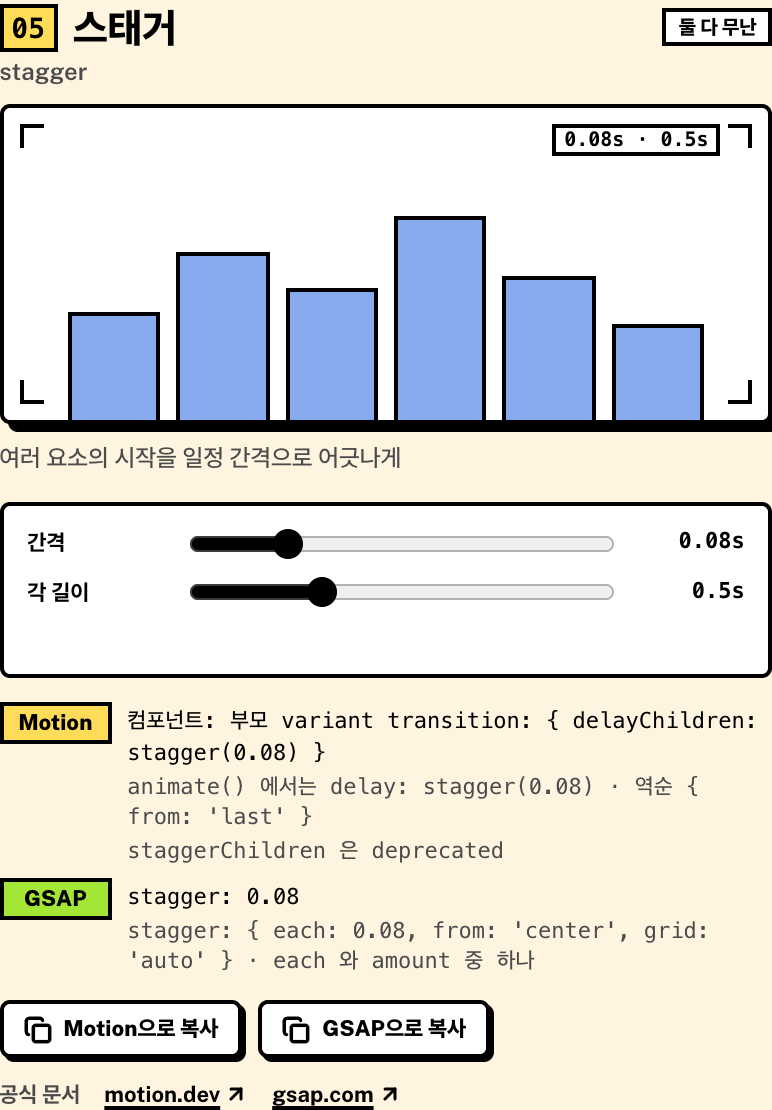
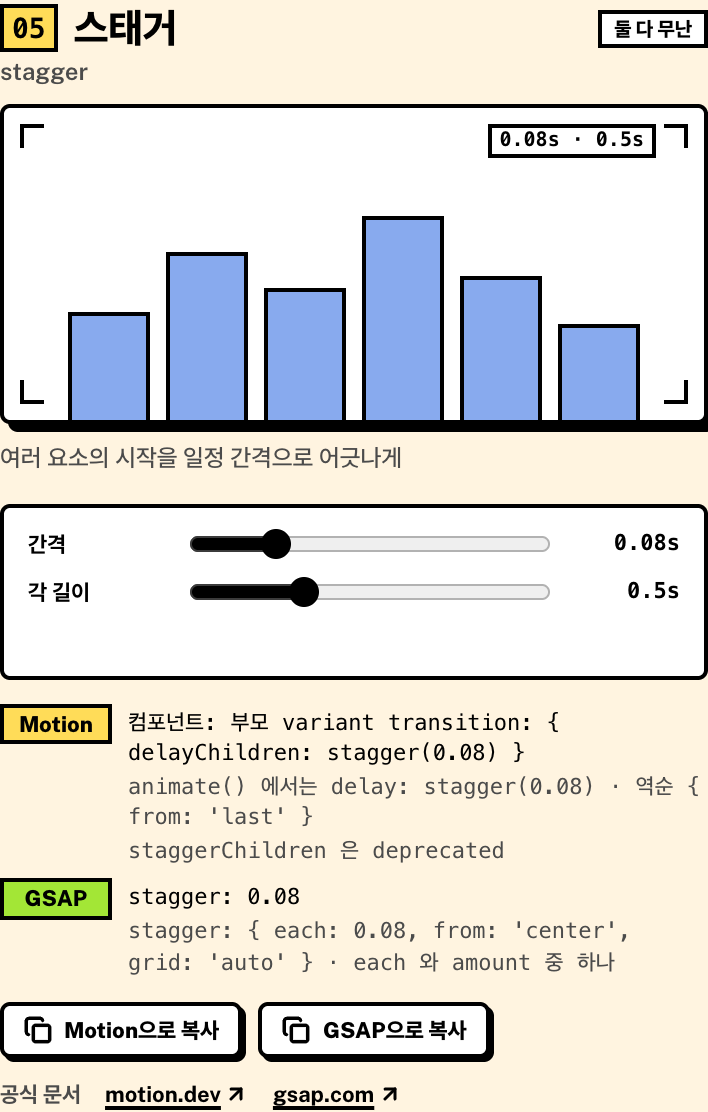
히어로 문구 개선 및 섹션 이동 툴팁 추가
- src/App.tsx: 히어로·"여기서 얻어가는 것" 문구를 해요체로 수정, "이름" 표현을 "표준 용어"로 정정
- src/App.tsx: 카테고리 버튼에 마지막 hover 위치를 따라 이동하는 바운스 툴팁 추가
- src/index.css: prefers-reduced-motion 조건부 smooth scroll 적용
- README.md, docs/*.png: 문구 통일 및 스크린샷 교체
- .gitignore: .netlify 제외

diff --git a/src/App.tsx b/src/App.tsx
@@ -1,4 +1,4 @@
-import { Suspense, useState } from 'react'
+import { Suspense, useLayoutEffect, useRef, useState } from 'react'
 import { ArrowUpRight, Check, Copy, RotateCcw } from 'lucide-react'
 
 import { TECHNIQUE_SECTIONS, type Technique } from './techniques/registry'
@@ -25,6 +25,20 @@ const FIT_LABEL: Record<Fit, { text: string; className: string }> = {
 const sectionId = (index: number) => `section-${index + 1}`
 
 export default function App() {
+  const [activeIndex, setActiveIndex] = useState(0)
+  const [tooltipPos, setTooltipPos] = useState<{ x: number; y: number } | null>(null)
+  const linkRefs = useRef<(HTMLAnchorElement | null)[]>([])
+
+  useLayoutEffect(() => {
+    const update = () => {
+      const link = linkRefs.current[activeIndex]
+      if (link) setTooltipPos({ x: link.offsetLeft + link.offsetWidth / 2, y: link.offsetTop })
+    }
+    update()
+    window.addEventListener('resize', update)
+    return () => window.removeEventListener('resize', update)
+  }, [activeIndex])
+
   return (
     <div className="pb-24">
       {/* 히어로 */}
@@ -37,18 +51,24 @@ export default function App() {
             모션 기법 사전
           </h1>
           <p className="mt-4 max-w-xl text-base font-bold break-keep sm:text-lg">
-            원하는 움직임을 이름과 수치로 바꿔, AI에게 바로 붙여 넣을 지시문으로 가져간다.
+            원하는 움직임을 표준 용어와 숫자로 바꿔보세요. 그대로 복사해서 AI에게 붙여 넣을 수 있는 지시문이 돼요.
           </p>
           <p className="text-nb-muted mt-2 max-w-xl text-sm font-medium break-keep">
-            "부드럽게", "세련되게"는 사람마다, 실행마다 다른 결과를 낸다. 표준 용어와 숫자로 말하면 한 번에 같은 연출이 나온다.
+            "부드럽게", "세련되게" 같은 표현은 사람마다, 실행할 때마다 다르게 해석되기 쉬워요. 표준 용어와 숫자로 말하면 누가 언제 적용해도 똑같은 움직임을 만들 수 있답니다.
           </p>
 
           {/* 카테고리 바로가기 */}
-          <nav className="mt-7 flex flex-wrap gap-2">
+          <nav className="relative mt-10 flex flex-wrap gap-2">
             {TECHNIQUE_SECTIONS.map((section, index) => (
               <a
                 key={section.heading}
+                ref={(el) => {
+                  linkRefs.current[index] = el
+                }}
                 href={`#${sectionId(index)}`}
+                title={`${section.heading} 섹션으로 이동`}
+                onMouseEnter={() => setActiveIndex(index)}
+                onFocus={() => setActiveIndex(index)}
                 className={cn(
                   'shadow-nb-sm rounded-[5px] border-2 border-black px-3 py-1.5 text-xs font-extrabold transition-transform hover:translate-x-0.5 hover:translate-y-0.5 hover:shadow-none',
                   ACCENT_BG[section.accent]
@@ -58,6 +78,21 @@ export default function App() {
                 <span className="ml-1.5 font-mono">{section.techniques.length}</span>
               </a>
             ))}
+
+            {tooltipPos && (
+              <span
+                aria-hidden="true"
+                className="pointer-events-none absolute top-0 left-0 transition-transform duration-150 ease-out"
+                style={{ transform: `translate(${tooltipPos.x}px, ${tooltipPos.y - 32}px)` }}
+              >
+                <span className="flex -translate-x-1/2 animate-bounce flex-col items-center">
+                  <span className="shadow-nb-sm rounded-[4px] border-2 border-black bg-white px-1.5 py-0.5 text-[9px] font-extrabold tracking-tight whitespace-nowrap text-black">
+                    눌러서 바로 이동해요
+                  </span>
+                  <span className="-mt-[3px] size-1.5 rotate-45 border-r-2 border-b-2 border-black bg-white" />
+                </span>
+              </span>
+            )}
           </nav>
         </div>
       </section>
@@ -188,20 +223,20 @@ function TechniqueCard({
 
 const TAKEAWAYS = [
   {
-    title: '움직임의 이름',
-    body: '머릿속 "그 스르륵 올라오는 거"가 무슨 기법인지 데모를 보고 찾는다. 이름을 알면 AI 지시도, 검색도, 디자이너와의 대화도 정확해진다.',
+    title: '기법 용어 찾기',
+    body: '머릿속에 있는 "그 스르륵 올라오는 거"가 어떤 기법인지 데모를 보면서 찾아보세요. 정확한 용어를 알면 AI에게 지시할 때도, 검색할 때도, 디자이너와 대화할 때도 훨씬 정확해져요.',
     accent: 'bg-nb-blue',
     example: ['마스크 리빌', '스태거', '오버슈트']
   },
   {
     title: '어떤 도구로 만들지',
-    body: '같은 기법을 Motion · GSAP · CSS로 각각 어떻게 하는지 나란히 본다. 공식 문서와 대조한 API, 어느 쪽이 맞는지, 유료 기능인지까지.',
+    body: '같은 기법을 Motion · GSAP · CSS로 각각 어떻게 구현하는지 나란히 비교해보세요. 공식 문서와 대조한 API는 물론, 어느 쪽이 맞는지, 유료 기능인지도 함께 확인할 수 있어요.',
     accent: 'bg-nb-green',
     example: ['Motion 추천', 'GSAP 추천', '브라우저 기본']
   },
   {
     title: '정확한 수치와 지시문',
-    body: '슬라이더로 느낌을 눈으로 맞추고 복사한다. "부드럽게 해줘"를 여러 번 왕복하던 걸 한 번에 끝낸다.',
+    body: '슬라이더를 움직이며 눈으로 느낌을 맞춰보고, 그대로 복사해보세요. "부드럽게 해줘"를 여러 번 주고받던 과정을 한 번에 끝낼 수 있어요.',
     accent: 'bg-nb-yellow',
     example: ['0.12s 간격', 'stiffness 220', 'damping 12']
   }
@@ -237,7 +272,7 @@ function Takeaways() {
 
       {/* 복사 결과 예시 */}
       <figure className="mt-5 max-w-3xl">
-        <figcaption className="text-nb-muted mb-2 text-xs font-bold">카드에서 "Motion으로 복사"를 누르면</figcaption>
+        <figcaption className="text-nb-muted mb-2 text-xs font-bold">카드에서 "Motion으로 복사"를 누르면 이렇게 나와요</figcaption>
         <pre className="overflow-x-auto rounded-[5px] border-2 border-black bg-black px-4 py-3 font-mono text-[12px] leading-relaxed whitespace-pre-wrap text-white">
           {`스태거(stagger): 스태거로 0.12s 간격을 두고, 하나씩 0.5s ease-out-quart로 아래에서 올라오게.
 구현: Motion — 부모 variant transition: { delayChildren: stagger(0.12) } · 자식 { duration: 0.5, ease: [0.25, 1, 0.5, 1] }`}

diff --git a/src/index.css b/src/index.css
@@ -42,6 +42,12 @@
   --shadow-nb-lg: 8px 8px 0px 0px var(--nb-ink);
 }
 
+@media (prefers-reduced-motion: no-preference) {
+  html {
+    scroll-behavior: smooth;
+  }
+}
+
 body {
   margin: 0;
   background-color: var(--nb-bg);

diff --git a/README.md b/README.md
@@ -1,10 +1,10 @@
 # Motion Lab
 
-모션 기법 사전. 원하는 움직임을 표준 용어와 수치로 바꿔, AI에게 바로 붙여 넣을 지시문으로 가져갈 수 있습니다.
+모션 기법 사전. 원하는 움직임을 표준 용어와 숫자로 바꿔, AI에게 바로 붙여 넣을 지시문으로 가져갈 수 있습니다.
 
 ![Motion Lab](docs/preview.png)
 
-"부드럽게", "세련되게" 같은 말은 사람마다, 실행마다 다른 결과를 냅니다. Motion Lab은 모션을 `스태거`, `마스크 리빌`, `오버슈트`처럼 업계에서 통하는 이름과 숫자로 정리해서, 같은 연출을 한 번에 지시할 수 있게 합니다.
+"부드럽게", "세련되게" 같은 말은 사람마다, 실행마다 다른 결과를 냅니다. Motion Lab은 모션을 `스태거`, `마스크 리빌`, `오버슈트`처럼 업계에서 통하는 표준 용어와 숫자로 정리해서, 같은 연출을 한 번에 지시할 수 있게 합니다.
 
 ## Features
 
